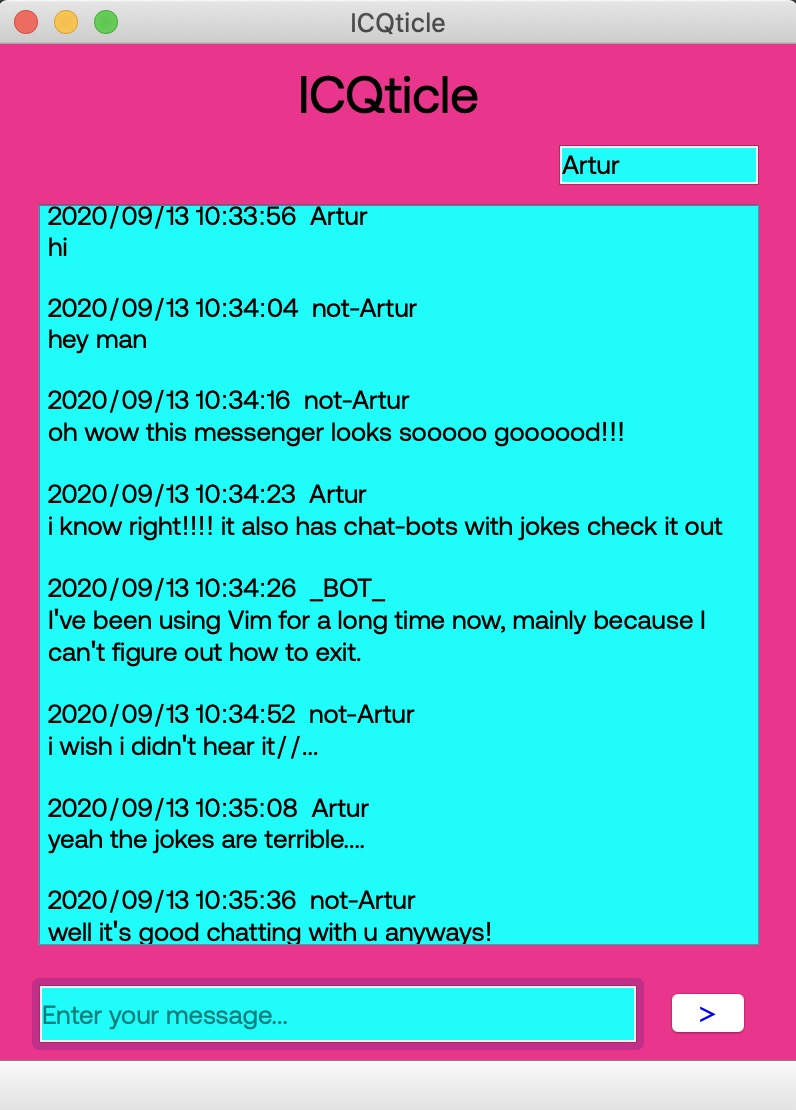
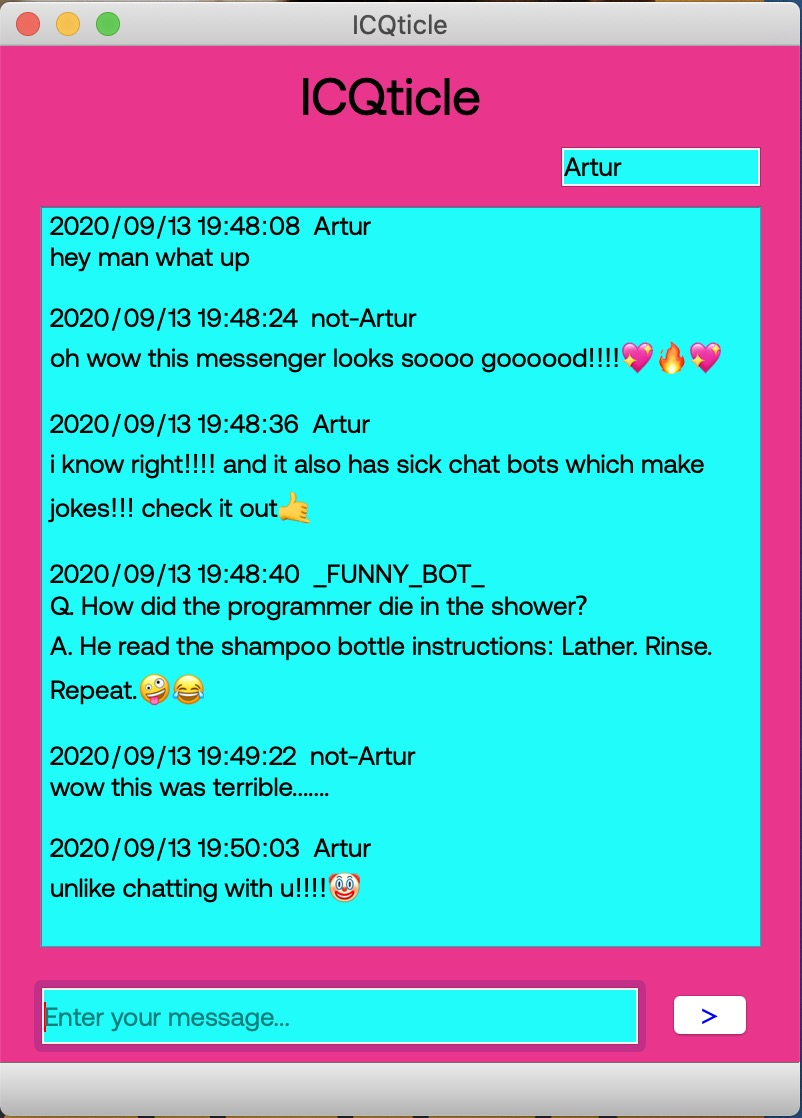
upd

Changed region(s): [[0.0, 0.0, 1.0, 1.0], [0.392, 0.0, 0.603, 0.1225], [0.0, 0.0, 0.1508, 0.0613]]

diff --git a/messenger.py b/messenger.py
@@ -59,7 +59,7 @@ class Messenger(Ui_MainWindow, QtWidgets.QMainWindow):
             self.text_input.clear()
             self.text_input.repaint()
         else:
-            self.messages_browser.append('Error sending a message, server is offline')
+            self.messages_browser.append('Error sending a message')
             self.messages_browser.append('')
             self.messages_browser.repaint()
 

diff --git a/chat_bot.py b/chat_bot.py
@@ -10,7 +10,7 @@ def bot(bot_command, database):
     if bot_command == '/help':
         message = help_
     elif bot_command == '/joke':
-        message = str(pyjokes.get_joke(language='en', category='neutral'))
+        message = str(pyjokes.get_joke(language='en', category='neutral')) + '🤪😂'
     # elif bot_command == '/info':
     #     message = info_
     else:
